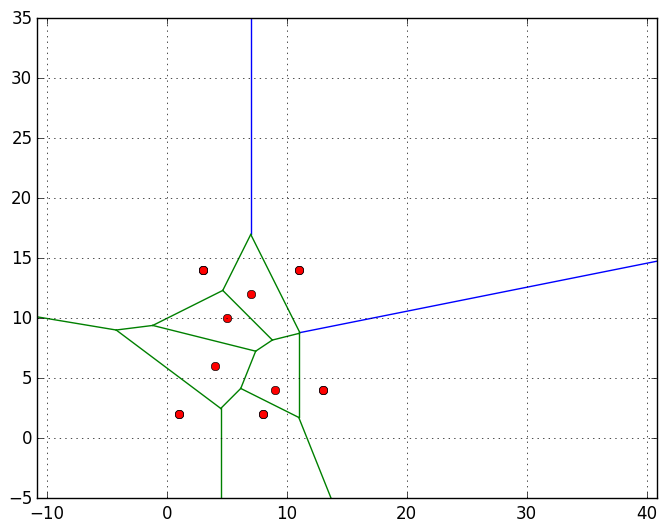
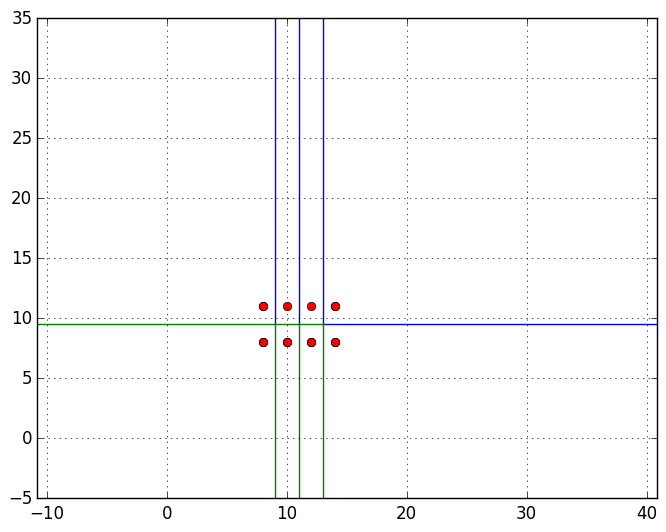
God danmmed simple fix for 4 co-circular

diff --git a/fortune/anim.py b/fortune/anim.py
@@ -71,67 +71,54 @@ def plot_parabola(focus,directrix, endpoints=None,pts=pylab.linspace(-10, width,
 	else:
 		start = endpoints[0][X] if endpoints[0] is not None else -10
 		end = endpoints[1][X] if endpoints[1] is not None else width
+		#print '\tplot focus', focus, start,end
 		if start != -10:
 			pts = pylab.linspace(-10,start,num=240)
+			#print '\t\tstart: -10 to ',start
 			plt.plot(pts, parabola(pts,f,directrix), '-',color='#e3e3e3',linewidth=1)
 
 		if end != width:
 			pts = pylab.linspace(end,width,num=240)
+			#print '\t\tend: ',end,'to',width
 			plt.plot(pts, parabola(pts,f,directrix), '-',color='#e3e3e3',linewidth=1)
 
 		pts = pylab.linspace(start,end,num=240)
 		plt.plot(pts, parabola(pts,f,directrix), '-',color=color,linewidth=2)
-		#parabolas.append(parabola(pts,f,directrix))
-		# Plot a vertical line that has the focus
-	#plt.plot([a,a],[0,height],'b-',color=c)
 
 from matplotlib import pyplot as plt
 from pylab import savefig
-from geometry import intersection, circle, euclidean_distance as dist, same_point
+from geometry import INFINITY, intersection, circle, euclidean_distance as dist, same_point
 
 def _draw_beachline(e, beachline):
+	isInfinity = lambda x: x is not None and x[0] == INFINITY and x[1] == INFINITY
 	#print beachline.T.dumps()
 	for arc in beachline:
 		end,start=None,None
-		# plot intersections
-		if beachline.predecessor(arc):
-			#print 'waaat', type(beachline.predecessor(arc))
-			start = intersection(beachline.predecessor(arc).site,arc.site,e.y)
-			plt.plot(start[0],start[1],'o',color='black')
-		if beachline.sucessor(arc):
-
-			#print 'waaat', type(beachline.sucessor(arc))
-			end = intersection(arc.site,beachline.sucessor(arc).site,e.y)
-			plt.plot(end[0],end[1],'o',color='black')
+		pred,suc = beachline.predecessor(arc), beachline.sucessor(arc)
+		#print pred, arc, suc
+		if pred is not None:
+			start = intersection(pred.site,arc.site,e.y)
+			# if start[X] == INFINITY and start[Y] == INFINITY:
+			# 	start = None
+		if suc is not None:
+			end = intersection(arc.site,suc.site,e.y)
+			# if end[X] == INFINITY and end[Y] == INFINITY:
+			# 	end = None
+		if isInfinity(start) and isInfinity(end) or isInfinity(start) and end is None:
+			continue
+		elif isInfinity(start):
+			start = None
+		elif isInfinity(end):
+			end = None
+		# print 'arc is',arc, 'intersections are',start,end, 'pred/suc', beachline.predecessor(arc),beachline.sucessor(arc)
 		plot_parabola(arc.site,e.y,endpoints=[start,end],color='purple')
 
-# def _draw_hedges(e, hedges):
-# 	for h in hedges:
-# 		if h.left[Y] == h.right[Y]:
-# 			plot_vertical(h.origin[X])
-# 		else:
-# 			plot_line(h.origin, h.current(e.y), color='blue')
-# 		#print '\t', h
 def _draw_hedges(e, hedges):
 	for h in hedges:
-		#plot_line(h.left_site, h.right_site, color='gray')
-		
-		#plot_line(h.line2[0], h.line2[1], color='blue')
-		# i = intersection(h.left_site,h.right_site,e.y)
-		# j = intersection(h.right_site,h.left_site,e.y)
-		# if h._origin is not None:
-		# 	plot_line(h.vertex_from, i)
-		# 	pass
-		# else:
-		# 	plot_line(h.line[0], j)
-		#plot_line(h.vertex_from, i, color='red')
-		#plot_line(h.vertex_from, j, color='orange')
 		if h._origin:
 			plot_line(h.vertex_from(e.y), h.vertex_to(e.y), color='green')
 		else:
 			plot_line(h.vertex_from(e.y), h.vertex_to(e.y), color='blue')
-		#plot_line(h.line[0]/(h.line[0].norm), h.line[1]/(h.line[1].norm), color='green')
-		#print '\t', h
 
 def _draw_circle_events(e, event_queue, past_circle_events, draw_bottoms=True, draw_circles=False, fig=None, draw_past_circles=False):
 	if not e.is_site:

diff --git a/main.py b/main.py
@@ -21,6 +21,12 @@ if __name__ == '__main__':
 		[(9, 11), (9, 11), (8, 4), (10, 11), (1, 0), (14, 9), (3, 1), (15, 14), (3, 8)],
 		# Two collinear
 		[(8, 11, 'a'), (11, 9, 'b'), (13, 9, 'c')],
+		[(8, 11), (11, 9), (13, 9),(12,7),(15,9),(17,9),(19,9),(21,9)],
+		[(8, 11), (11, 9), (13, 9),(12,7),(15,9),(17,9),(19,9),(21,9),(15,6),(17,6),(19,6),(21,6)],
+		[(8,11),(10,11),(12,11)],
+		[(8,11),(10,11),(12,11),(14,11)],
+		[(8,11),(10,11),(12,11),(14,11),(8,8),(10,8),(12,8),(14,8)],
+		[(8,11),(10,11),(12,11),(14,11),(8,8),(10,8),(12,8),(14,8),(8,6),(10,6),(12,6),(14,6)],
 		# Three collinear
 		[(4, 1, 'a'), (8, 0, 'b'), (11, 0, 'c'), (14, 0, 'd')],
 		[(4,10),(1,10), (12,6)],
@@ -40,14 +46,20 @@ if __name__ == '__main__':
 		# 4 co-circular (at step 30-35)
 		[(12, 4), (18, 16), (7, 12), (7, 16), (3, 7), (17, 14), (1, 20), (8, 7), (3, 18), (7, 15), (13, 1), (17, 0), (0, 3), (7, 16), (10, 11), (5, 13), (5, 13), (1, 9), (1, 11)],
 		#
-		#[(3, 6), (4, 7), (16, 14), (13, 5), (0, 6), (11, 0), (14, 5), (11, 13), (9, 12), (17, 7), (9, 1), (10, 17), (16, 20), (1, 1), (11, 2), (17, 0), (13, 5), (12, 13), (9, 2)],
-		#[(0, 12), (5, 19), (7, 4), (10, 8), (10, 18), (18, 10), (14, 20), (9, 13), (18, 0), (10, 13), (3, 17), (18, 4), (11, 12), (16, 4), (19, 1), (14, 15), (2, 1), (9, 19), (3, 10)],
+		[(8,11),(14,11),(20,11),(26,11),(8,6),(14,6),(20,6),(26,6)],
+		[(8,11),(14,11),(20,11),(8,6),(14,6),(20,6)],
+		[(3, 6), (4, 7), (16, 14), (13, 5), (0, 6), (11, 0), (14, 5), (11, 13), (9, 12), (17, 7), (9, 1), (10, 17), (16, 20), (1, 1), (11, 2), (17, 0), (13, 5), (12, 13), (9, 2)],
+		[(0, 12), (5, 19), (7, 4), (10, 8), (10, 18), (18, 10), (14, 20), (9, 13), (18, 0), (10, 13), (3, 17), (18, 4), (11, 12), (16, 4), (19, 1), (14, 15), (2, 1), (9, 19), (3, 10)],
 		# Circle plus below intersection
 		#[(5.0, 0.0), (3.5355339059327378, 3.5355339059327373), (3.061616997868383e-16, 5.0), (-3.5355339059327373, 3.5355339059327378), (-5.0, 6.123233995736766e-16), (-3.5355339059327386, -3.5355339059327373), (-9.184850993605148e-16, -5.0), (3.535533905932737, -3.5355339059327386), (5.0, -1.2246467991473533e-15)],
 		#[(5.0, 0.0), (3.5355339059327378, 3.5355339059327373), (3.061616997868383e-16, 5.0), (-3.5355339059327373, 3.5355339059327378), (-5.0, 6.123233995736766e-16)]
+		
 	]
 
 	selected_runs.extend(degenerate_runs)
+
+	#selected_runs = [[(8,11),(14,11),(20,11),(26,11),(8,6),(14,6),(20,6),(26,6)]]
+	#selected_runs = [[(8,11),(14,11),(20,11),(8,6),(14,6),(20,6)],]
 	# x = [ randint(0,15) for i in range(1,10)]
 	# y = [ randint(0,15) for i in range(1,10)]
 	# pts = zip(x,y,label)
@@ -56,12 +68,12 @@ if __name__ == '__main__':
 	# pts = selected_runs[-1]
 	# v = VoronoiDiagram(pts,bounding_box=bbox)
 	# exit(1)
-	for pts in selected_runs:
-		v = VoronoiDiagram(pts,bounding_box=bbox, step_by_step=False)
-	# for i in range(1,50):
-	# 	x = [ randint(0,20) for i in range(1,20)]
-	# 	y = [ randint(0,20) for i in range(1,20)]
-	# 	pts = zip(x,y)
+	# for pts in selected_runs:
 	# 	v = VoronoiDiagram(pts,bounding_box=bbox, step_by_step=False)
+	for i in range(1,25):
+		x = [ randint(0,20) for i in range(1,20)]
+		y = [ randint(0,20) for i in range(1,20)]
+		pts = zip(x,y)
+		v = VoronoiDiagram(pts,bounding_box=bbox, step_by_step=False)
 
 	

diff --git a/fortune/voronoi.py b/fortune/voronoi.py
@@ -18,6 +18,8 @@ class VoronoiDiagram(object):
 		self.T = AVLBeachLine()
 		self.Q = EventQueue(points)
 		
+		# treat degeneracies
+		prev = None
 		log('EventQueue: %s' % str(self.Q))
 		while not self.Q.is_empty:
 			event = self.Q.pop()
@@ -25,11 +27,16 @@ class VoronoiDiagram(object):
 			if isinstance(event, SiteEvent):
 				log('_handle_site_event')
 				self._handle_site_event(event)
+
+				if step_by_step:
+					self.animate(event, draw_bottoms=False)
 			else:
 				log('_handle_circle_event')
-				self._handle_circle_event(event)
-			if step_by_step:
-				self.animate(event, draw_bottoms=False)
+				if event != prev or True:
+					self._handle_circle_event(event)
+					if step_by_step and event.is_valid:
+						self.animate(event, draw_bottoms=False)
+			prev = event
 
 			log('%s' % self.T.T.dumps())
 			log('beachline: %s' % self.T)

diff --git a/fortune/event.py b/fortune/event.py
@@ -80,7 +80,7 @@ class CircleEvent(FortuneEvent):
 		self.circle = (Point(*center), radius)
 		arc.circle_event = self
 
-		log('\t\t\t Detected: %s ' % self)
+		log('\t\t\tDetected: %s arc is %s with parent %s left/right %s/%s' % (self,self.arc, self.arc.parent,self.arc.left,self.arc.right))
 
 	@property
 	def x(self):
@@ -110,7 +110,7 @@ class CircleEvent(FortuneEvent):
 		return Point(self.center.x, self.center.y - self.radius)
 
 	def __repr__(self):
-		return u"CircleEvent at y=%s center is %s arc is %s" % (self.y, self.center, self.arc)
+		return u"CircleEvent at y=%s center is %s arc is %s with parent %s left/right %s/%s" % (self.y, self.center, self.arc, self.arc.parent,self.arc.left,self.arc.right)
 
 	# @property
 	# def is_site(self):

diff --git a/fortune/beachline.py b/fortune/beachline.py
@@ -234,7 +234,8 @@ class AVLBeachLine(BeachLine):
 
 	def delete(self, arc):
 		# find internal nodes
-		log('\t\t\t deleting %s' % arc)
+		log('\t\t\t deleting %s original intree: %s' % (arc, self.T))
+		#print '\t\t\tparent is', arc.parent, arc.left, arc.right
 		
 		pred = self.T.predecessor(arc)
 		suc = self.T.sucessor(arc)
@@ -265,6 +266,7 @@ class AVLBeachLine(BeachLine):
 				grandpa.right = pa.right
 			pred.q = rsib.p
 		log('\t\t\t\tsiblings: %s %s' % (lsib,rsib))
+		arc.circle_event = None
 		return lsib, rsib
 
 

diff --git a/fortune/dcel.py b/fortune/dcel.py
@@ -57,8 +57,10 @@ class Hedge(object):
         if self._origin is not None:
             return self._origin
         i = intersection(self.left_site, self.right_site, y)
+        #print 'intersection of', self.left_site, self.right_site, 'is', i
         # they are collinear
         if i[1] == INFINITY and i[0] == INFINITY:
+            #print '\thi'
             x = (self.left_site.x + self.right_site.x) / 2.0
             return Point(x,INFINITY)
         return Point(i[0],i[1])

diff --git a/fortune/__init__.py b/fortune/__init__.py
@@ -1,6 +1,6 @@
 # -*- coding: utf-8 -*-
 
-DEBUG = True
+DEBUG = False
 
 def log(s):
     if DEBUG:
